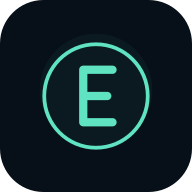
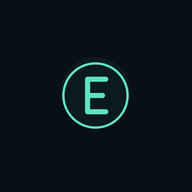
Fix iOS PWA cold-start white screen
iOS was synthesizing a white launch screen from a transparent touch icon
and missing apple-touch-startup-image assets. Add opaque icons, dark
startup images, inline shell background, and stale-while-revalidate
navigation caching so homescreen opens paint immediately after idle.

diff --git a/public/sw.js b/public/sw.js
@@ -1,5 +1,5 @@
 /* Peugeot Control — lightweight offline shell */
-const CACHE = "e3008-shell-v3";
+const CACHE = "e3008-shell-v4";
 const PRECACHE = [
   "/manifest.webmanifest",
   "/icon.svg",
@@ -7,6 +7,8 @@ const PRECACHE = [
   "/icon-512.png",
   "/apple-touch-icon.png",
 ];
+
+const OFFLINE_HTML = `<!doctype html><html lang=de><meta charset=utf-8><meta name=viewport content="width=device-width,initial-scale=1,viewport-fit=cover"><meta name=theme-color content="#071018"><title>Peugeot Control</title><body style="margin:0;background:#071018;color:#eef6f8;font-family:system-ui,sans-serif;display:grid;place-items:center;min-height:100dvh"><div style="text-align:center;padding:2rem"><p style="font-size:1.25rem;font-weight:600;letter-spacing:-0.02em">Peugeot Control</p><p style="opacity:.7;margin-top:.75rem;font-size:.9rem">Verbinde…</p></div></body></html>`;
 
 self.addEventListener("install", (event) => {
   event.waitUntil(
@@ -36,25 +38,41 @@ self.addEventListener("fetch", (event) => {
   // Never cache authenticated API — client keeps last snapshot in localStorage.
   if (url.pathname.startsWith("/api/")) return;
 
-  // App shell / navigations: network first, fall back to cache.
+  // Navigations: stale-while-revalidate so cold PWA opens paint immediately
+  // from the last /control shell instead of waiting on auth/network TTFB.
   if (req.mode === "navigate") {
     event.respondWith(
-      fetch(req)
-        .then((res) => {
-          const copy = res.clone();
-          void caches.open(CACHE).then((cache) => cache.put(req, copy));
-          return res;
-        })
-        .catch(async () => {
-          const cached = await caches.match(req);
-          if (cached) return cached;
-          const control = await caches.match("/control");
-          if (control) return control;
-          return new Response(
-            "<!doctype html><html lang=de><meta charset=utf-8><meta name=viewport content=\"width=device-width,initial-scale=1\"><title>Peugeot Control Offline</title><body style=\"margin:0;background:#071018;color:#eef6f8;font-family:system-ui;display:grid;place-items:center;min-height:100dvh\"><div style=\"text-align:center;padding:2rem\"><p style=\"font-size:1.25rem;font-weight:600\">Offline</p><p style=\"opacity:.7;margin-top:.5rem\">Kein Netz — letzter Stand erscheint beim nächsten Besuch, sobald /control gecacht ist.</p></div></body></html>",
-            { headers: { "Content-Type": "text/html; charset=utf-8" } },
-          );
-        }),
+      (async () => {
+        const cache = await caches.open(CACHE);
+        const cached =
+          (await cache.match(req)) ||
+          (await cache.match("/control")) ||
+          (await cache.match("/"));
+
+        const networkPromise = fetch(req)
+          .then((res) => {
+            if (res && res.ok) {
+              void cache.put(req, res.clone());
+              if (url.pathname === "/control" || url.pathname.startsWith("/control/")) {
+                void cache.put("/control", res.clone());
+              }
+            }
+            return res;
+          })
+          .catch(() => null);
+
+        if (cached) {
+          event.waitUntil(networkPromise);
+          return cached;
+        }
+
+        const network = await networkPromise;
+        if (network) return network;
+
+        return new Response(OFFLINE_HTML, {
+          headers: { "Content-Type": "text/html; charset=utf-8" },
+        });
+      })(),
     );
     return;
   }
@@ -62,6 +80,7 @@ self.addEventListener("fetch", (event) => {
   // Static icons / assets: cache first.
   if (
     url.pathname.startsWith("/icon") ||
+    url.pathname.startsWith("/splash/") ||
     url.pathname === "/apple-touch-icon.png" ||
     url.pathname === "/manifest.webmanifest"
   ) {

diff --git a/src/app/layout.tsx b/src/app/layout.tsx
@@ -41,7 +41,61 @@ export const metadata: Metadata = {
   appleWebApp: {
     capable: true,
     title: SITE_NAME,
-    statusBarStyle: "black-translucent",
+    // Opaque black bar avoids a white flash under translucent status chrome
+    // before CSS paints on cold PWA launch.
+    statusBarStyle: "black",
+    startupImage: [
+      {
+        url: "/splash/apple-splash-640-1136.png",
+        media:
+          "(device-width: 320px) and (device-height: 568px) and (-webkit-device-pixel-ratio: 2)",
+      },
+      {
+        url: "/splash/apple-splash-750-1334.png",
+        media:
+          "(device-width: 375px) and (device-height: 667px) and (-webkit-device-pixel-ratio: 2)",
+      },
+      {
+        url: "/splash/apple-splash-828-1792.png",
+        media:
+          "(device-width: 414px) and (device-height: 896px) and (-webkit-device-pixel-ratio: 2)",
+      },
+      {
+        url: "/splash/apple-splash-1125-2436.png",
+        media:
+          "(device-width: 375px) and (device-height: 812px) and (-webkit-device-pixel-ratio: 3)",
+      },
+      {
+        url: "/splash/apple-splash-1170-2532.png",
+        media:
+          "(device-width: 390px) and (device-height: 844px) and (-webkit-device-pixel-ratio: 3)",
+      },
+      {
+        url: "/splash/apple-splash-1179-2556.png",
+        media:
+          "(device-width: 393px) and (device-height: 852px) and (-webkit-device-pixel-ratio: 3)",
+      },
+      {
+        url: "/splash/apple-splash-1206-2622.png",
+        media:
+          "(device-width: 402px) and (device-height: 874px) and (-webkit-device-pixel-ratio: 3)",
+      },
+      {
+        url: "/splash/apple-splash-1284-2778.png",
+        media:
+          "(device-width: 428px) and (device-height: 926px) and (-webkit-device-pixel-ratio: 3)",
+      },
+      {
+        url: "/splash/apple-splash-1290-2796.png",
+        media:
+          "(device-width: 430px) and (device-height: 932px) and (-webkit-device-pixel-ratio: 3)",
+      },
+      {
+        url: "/splash/apple-splash-1320-2868.png",
+        media:
+          "(device-width: 440px) and (device-height: 956px) and (-webkit-device-pixel-ratio: 3)",
+      },
+    ],
   },
   formatDetection: {
     telephone: false,
@@ -51,6 +105,7 @@ export const metadata: Metadata = {
   },
   other: {
     "mobile-web-app-capable": "yes",
+    "apple-mobile-web-app-capable": "yes",
     ...(process.env.NEXT_PUBLIC_BING_SITE_VERIFICATION
       ? { "msvalidate.01": process.env.NEXT_PUBLIC_BING_SITE_VERIFICATION }
       : {}),
@@ -69,13 +124,19 @@ export const viewport: Viewport = {
   viewportFit: "cover",
 };
 
+const SHELL_BG = "#071018";
+
 export default function RootLayout({ children }: LayoutProps<"/">) {
   return (
     <html
       lang="de"
       className={`${display.variable} ${body.variable}`}
+      style={{ backgroundColor: SHELL_BG, colorScheme: "dark" }}
     >
-      <body className="antialiased">
+      <body
+        className="antialiased"
+        style={{ backgroundColor: SHELL_BG, color: "#eef6f8", margin: 0 }}
+      >
         {children}
         <AuthRecoveryRedirect />
         <AuthUrlSession />

diff --git a/src/components/PwaRegister.tsx b/src/components/PwaRegister.tsx
@@ -8,13 +8,34 @@ export function PwaRegister() {
     if (typeof window === "undefined" || !("serviceWorker" in navigator)) {
       return;
     }
+
+    let registration: ServiceWorkerRegistration | undefined;
+
     const register = () => {
-      void navigator.serviceWorker.register("/sw.js").catch(() => {
-        // SW is best-effort (e.g. unsupported on some previews).
-      });
+      void navigator.serviceWorker
+        .register("/sw.js")
+        .then((reg) => {
+          registration = reg;
+          void reg.update();
+        })
+        .catch(() => {
+          // SW is best-effort (e.g. unsupported on some previews).
+        });
     };
+
+    const onVisible = () => {
+      if (document.visibilityState === "visible") {
+        void registration?.update();
+      }
+    };
+
     if (document.readyState === "complete") register();
     else window.addEventListener("load", register, { once: true });
+    document.addEventListener("visibilitychange", onVisible);
+
+    return () => {
+      document.removeEventListener("visibilitychange", onVisible);
+    };
   }, []);
 
   return null;

diff --git a/scripts/generate-pwa-icons.py b/scripts/generate-pwa-icons.py
@@ -1,0 +1,68 @@
+#!/usr/bin/env python3
+"""Regenerate opaque PWA icons + iOS startup images (#071018).
+
+Source mark: public/icon-512.png (must already include the brand glyph).
+Splash + apple-touch get a solid #071018 fill so iOS never synthesizes a
+white launch screen from transparent corners.
+"""
+
+from __future__ import annotations
+
+from pathlib import Path
+
+from PIL import Image
+
+ROOT = Path(__file__).resolve().parents[1]
+PUBLIC = ROOT / "public"
+BG = (7, 16, 24, 255)
+
+SPLASHES = [
+    # (px_w, px_h, css_w, css_h, pixel_ratio)
+    (640, 1136, 320, 568, 2),
+    (750, 1334, 375, 667, 2),
+    (828, 1792, 414, 896, 2),
+    (1125, 2436, 375, 812, 3),
+    (1170, 2532, 390, 844, 3),
+    (1179, 2556, 393, 852, 3),
+    (1206, 2622, 402, 874, 3),
+    (1284, 2778, 428, 926, 3),
+    (1290, 2796, 430, 932, 3),
+    (1320, 2868, 440, 956, 3),
+]
+
+
+def composite_icon(source: Image.Image, size: int, icon_frac: float = 0.62) -> Image.Image:
+    canvas = Image.new("RGBA", (size, size), BG)
+    side = max(1, int(size * icon_frac))
+    scaled = source.resize((side, side), Image.Resampling.LANCZOS)
+    flat = Image.alpha_composite(Image.new("RGBA", scaled.size, BG), scaled)
+    canvas.paste(flat, ((size - side) // 2, (size - side) // 2))
+    return canvas.convert("RGB")
+
+
+def main() -> None:
+    source_path = PUBLIC / "icon-512.png"
+    icon = Image.open(source_path).convert("RGBA")
+
+    composite_icon(icon, 180).save(PUBLIC / "apple-touch-icon.png", "PNG", optimize=True)
+    composite_icon(icon, 192).save(PUBLIC / "icon-192.png", "PNG", optimize=True)
+    # Keep 512 brand mark, but flatten onto opaque bg for maskable installs.
+    composite_icon(icon, 512, icon_frac=1.0).save(
+        PUBLIC / "icon-512.png", "PNG", optimize=True
+    )
+
+    splash_dir = PUBLIC / "splash"
+    splash_dir.mkdir(exist_ok=True)
+    mark_src = composite_icon(icon, 512)
+    for w, h, _dw, _dh, _ratio in SPLASHES:
+        img = Image.new("RGB", (w, h), BG[:3])
+        side = max(64, int(min(w, h) * 0.18))
+        mark = mark_src.resize((side, side), Image.Resampling.LANCZOS)
+        img.paste(mark, ((w - side) // 2, (h - side) // 2))
+        out = splash_dir / f"apple-splash-{w}-{h}.png"
+        img.save(out, "PNG", optimize=True)
+        print(f"wrote {out.relative_to(ROOT)}")
+
+
+if __name__ == "__main__":
+    main()
